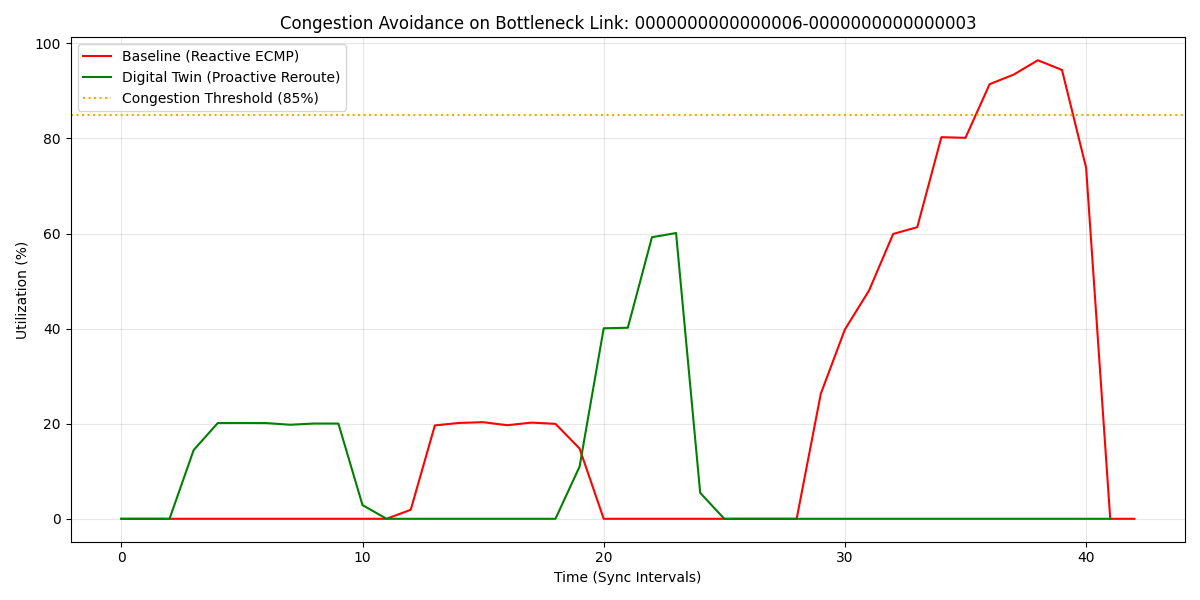
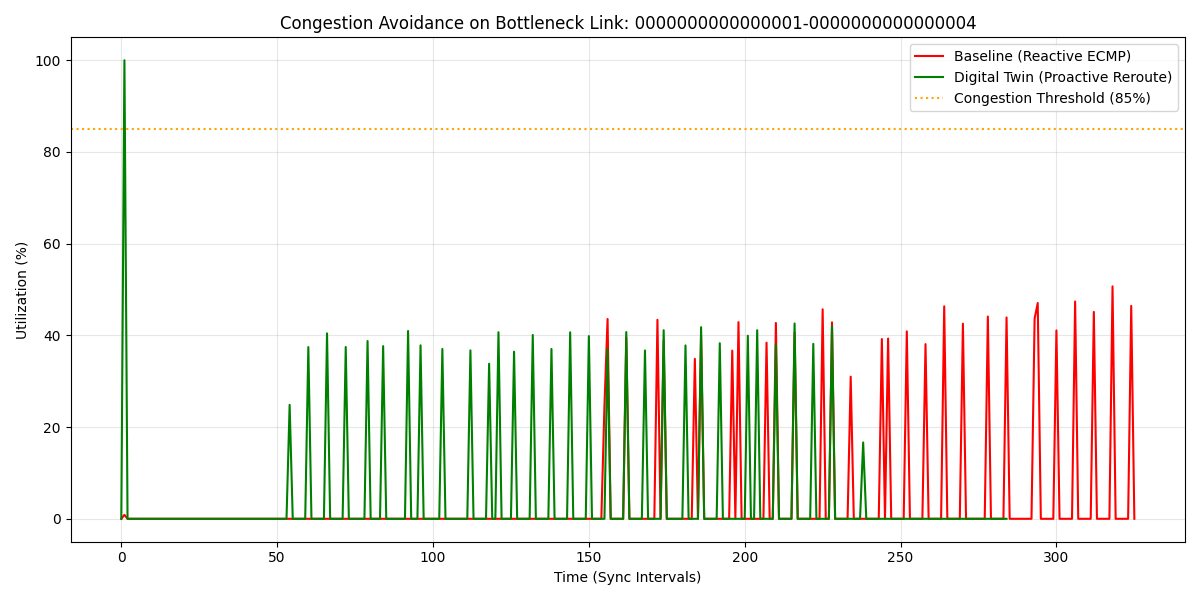
Update evaluation charts and fix OpenFlow match field for MAC authentication

diff --git a/sdn_env/nac_mab.py b/sdn_env/nac_mab.py
@@ -43,7 +43,7 @@ class NAC_MAB(app_manager.RyuApp):
             self.logger.warning(f"[NAC] Unauthorized host detected! Dropping traffic from MAC: {src_mac}")
             
             # Install a high priority drop rule for this unauthorized MAC
-            match = parser.OFPMatch(dl_src=src_mac)
+            match = parser.OFPMatch(eth_src=src_mac)
             actions = [] # Empty actions = DROP
             
             inst = [parser.OFPInstructionActions(ofproto.OFPIT_APPLY_ACTIONS, actions)]
